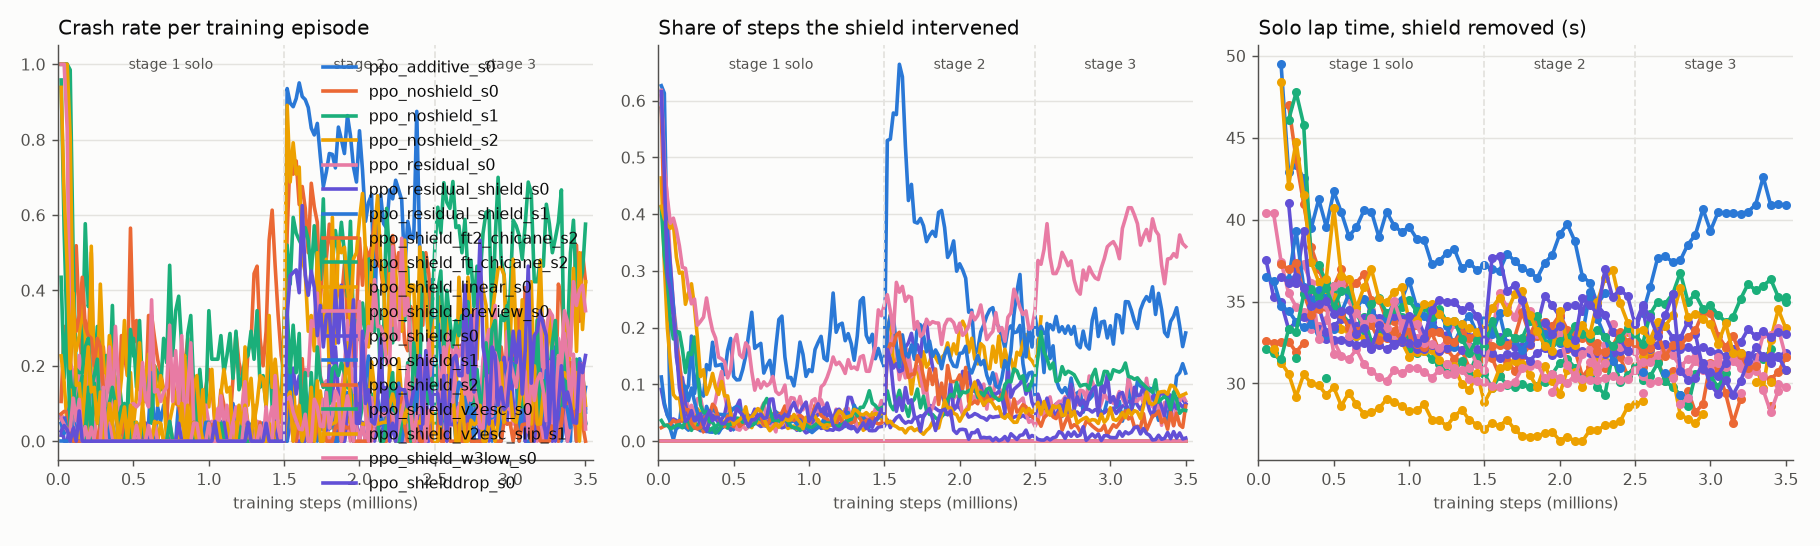
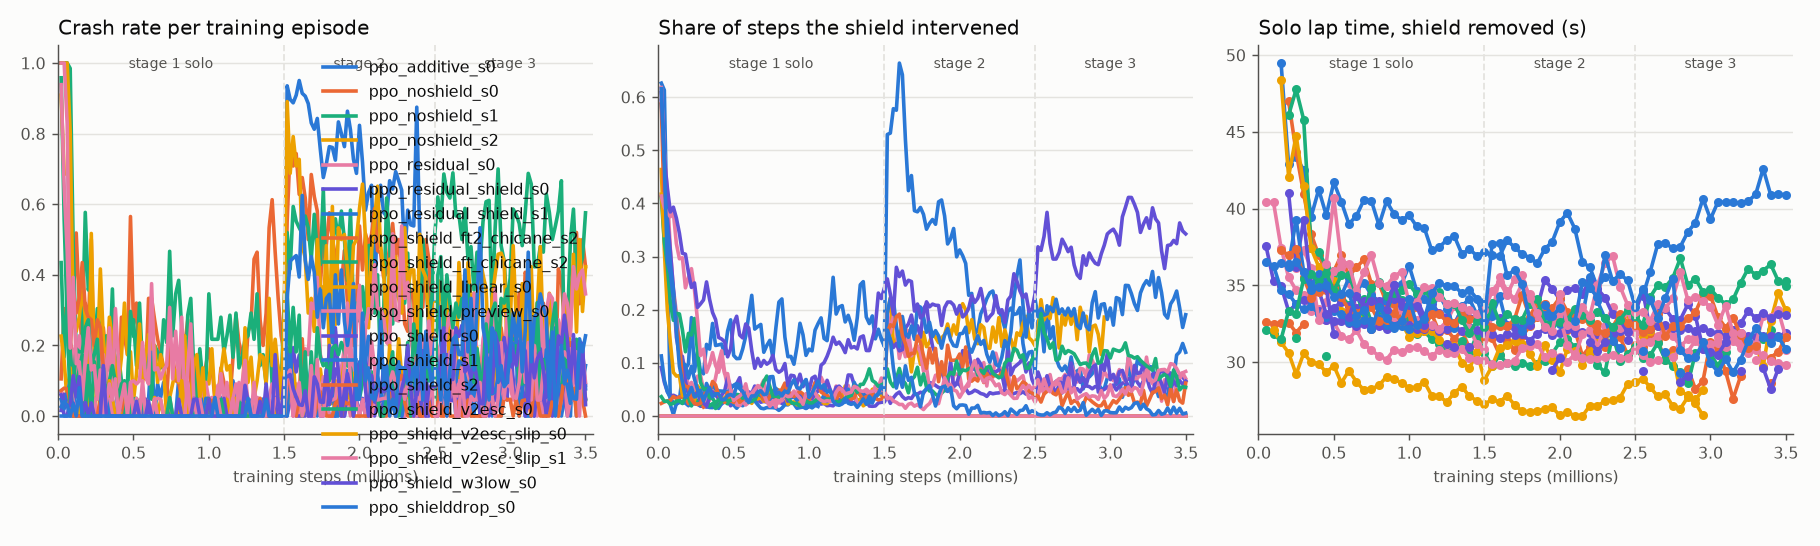
Auto-sync training progress (21:00)

diff --git a/RUNS.md b/RUNS.md
@@ -1,6 +1,6 @@
 # Run registry
 
-Auto-generated by `python -m scripts.update_registry` (2026-11-05 20:45). Each run directory `runs/<run>/` holds `args.json`, `run_info.json` (git commit, command, status), `train_log.csv` (every ~20k steps), `eval_log.csv` (solo laps with/without shield every 50k steps), `model_stage*.zip` + `vecnorm_stage*.pkl` (checkpoint after each curriculum stage). TensorBoard logs (`runs/*/tb`) stay local.
+Auto-generated by `python -m scripts.update_registry` (2026-11-05 21:00). Each run directory `runs/<run>/` holds `args.json`, `run_info.json` (git commit, command, status), `train_log.csv` (every ~20k steps), `eval_log.csv` (solo laps with/without shield every 50k steps), `model_stage*.zip` + `vecnorm_stage*.pkl` (checkpoint after each curriculum stage). TensorBoard logs (`runs/*/tb`) stay local.
 
 ## Training runs
 
@@ -12,15 +12,16 @@ Auto-generated by `python -m scripts.update_registry` (2026-11-05 20:45). Each r
 | `ppo_noshield_s2` | Ablation (no shield), seed 2 | shield=off seed=2 tyre=saturated | `65f27b5` | finished | 3.50M | 19% / 44% / 30% | 150k | 27.56 / 33.36 | 0% | stage1, stage2, stage3 |
 | `ppo_residual_s0` | ResRace/RaceMOP-style: PPO residual on top of PID+APF (APF shapes every command) | shield=off residual seed=0 tyre=saturated | `5549760` | finished | 3.50M | 14% / 22% / 22% | 50k | 29.80 / 29.80 | 0% | stage1, stage2, stage3 |
 | `ppo_residual_shield_s0` | E23: ResRace-style residual policy trained with the final shield (escape, v2 sim) | shield=cond_fb_grip_esc residual seed=0 tyre=saturated_v2 | `c8b4246` | finished | 3.50M | 0% / 3% / 9% | 50k | 31.40 / 31.88 | 7% | stage1, stage2, stage3 |
-| `ppo_residual_shield_s1` | E23, seed 1 | shield=cond_fb_grip_esc residual seed=1 tyre=saturated_v2 | `1c20b31` | running | 0.68M | 0% / - / - | 50k | 32.52 / 32.52 | 2% | - |
+| `ppo_residual_shield_s1` | E23, seed 1 | shield=cond_fb_grip_esc residual seed=1 tyre=saturated_v2 | `1c20b31` | running | 1.06M | 0% / - / - | 50k | 32.16 / 32.40 | 2% | - |
 | `ppo_shield_ft2_chicane_s2` | E22b: gentler chicane fine-tuning of seed 2 (lr 5e-5, slip penalty w6 = 1, 300k steps) | shield=cond_fb_grip_esc seed=2 tyre=saturated_v2 | `f167ff5` | running | 0.30M | 27% | 50k | 31.92 / 32.48 | 2% | - |
 | `ppo_shield_ft_chicane_s2` | E22: seed-2 shielded policy fine-tuned 500k steps, half the episodes starting before the chicane | shield=cond_fb_grip_esc seed=2 tyre=saturated_v2 | `e1f1aac` | running | 0.50M | 17% | 50k | 30.36 / 30.36 | 3% | - |
-| `ppo_shield_linear_s0` | Ours on stock linear tyres: does PPO exploit unlimited grip (slip > 15 deg, > 100% mu g)? | shield=cond_fb_grip seed=0 tyre=linear | `4ab467a` | running | 2.68M | 3% / 7% / 10% | 100k | 26.48 / 27.76 | 18% | stage1, stage2 |
+| `ppo_shield_linear_s0` | Ours on stock linear tyres: does PPO exploit unlimited grip (slip > 15 deg, > 100% mu g)? | shield=cond_fb_grip seed=0 tyre=linear | `4ab467a` | running | 2.96M | 3% / 7% / 12% | 100k | 26.48 / 26.52 | 16% | stage1, stage2 |
 | `ppo_shield_preview_s0` | Timidity test: ours with 10 centerline curvatures (1-20 m ahead) in the observation | shield=cond_fb_grip seed=0 tyre=saturated | `98cfd56` | finished | 3.50M | 2% / 4% / 7% | 250k | 30.00 / 31.60 | 6% | stage1, stage2, stage3 |
 | `ppo_shield_s0` | Ours: PPO + action-conditioned APF shield with fallback (grip reach), all stages | shield=cond_fb_grip seed=0 tyre=saturated | `afc94c8 +dirty` | finished | 3.50M | 1% / 9% / 7% | 200k | 30.48 / 33.04 | 6% | stage1, stage2, stage3 |
 | `ppo_shield_s1` | Ours, seed 1 | shield=cond_fb_grip seed=1 tyre=saturated | `0152028` | finished | 3.50M | 1% / 9% / 11% | 200k | 29.12 / 29.12 | 20% | stage1, stage2, stage3 |
 | `ppo_shield_s2` | Ours, seed 2 | shield=cond_fb_grip seed=2 tyre=saturated | `41be473` | finished | 3.50M | 1% / 3% / 3% | 150k | 30.28 / 31.60 | 4% | stage1, stage2, stage3 |
 | `ppo_shield_v2esc_s0` | Ours, improved: shield with deadlock escape, trained on the post-spin-fixed simulator | shield=cond_fb_grip_esc seed=0 tyre=saturated_v2 | `1bb44f8` | finished | 3.50M | 4% / 12% / 21% | 150k | 31.48 / 34.96 | 6% | stage1, stage2, stage3 |
+| `ppo_shield_v2esc_slip_s0` | E26: slip-penalty recipe (final shield, v2 sim, w6 = 1), seed 0 | shield=cond_fb_grip_esc seed=0 tyre=saturated_v2 | `7a45b58 +dirty` | running | 0.04M | 80% / - / - | - | - / - | 38% | - |
 | `ppo_shield_v2esc_slip_s1` | Final shield + slip penalty (w6 = 1), seed 1 (the seed that learned to slide) | shield=cond_fb_grip_esc seed=1 tyre=saturated_v2 | `7cd44cb` | finished | 3.50M | 7% / 7% / 9% | 450k | 30.08 / 30.80 | 9% | stage1, stage2, stage3 |
 | `ppo_shield_w3low_s0` | Timidity test: ours with intervention penalty w3 = 0.02 (default 0.1) | shield=cond_fb_grip seed=0 tyre=saturated | `8eb284b` | finished | 3.50M | 2% / 7% / 15% | 450k | 28.24 / 29.56 | 34% | stage1, stage2, stage3 |
 | `ppo_shielddrop_s0` | Shield dropout: shield on in 100% / 50% / 25% of episodes in stages 1/2/3 (does the policy learn safety itself?) | shield=cond_fb_grip seed=0 tyre=saturated | `0d04e46 +dirty` | finished | 3.50M | 0% / 23% / 19% | 150k | 29.32 / 30.84 | 1% | stage1, stage2, stage3 |
@@ -44,6 +45,7 @@ Auto-generated by `python -m scripts.update_registry` (2026-11-05 20:45). Each r
 - `ppo_shield_s1`: `python -m racing.train --shield cond_fb_grip --stages 1 2 3 --steps 1500000 1000000 1000000 --n_envs 7 --seed 1 --out runs/ppo_shield_s1`
 - `ppo_shield_s2`: `python -m racing.train --shield cond_fb_grip --stages 1 2 3 --steps 1500000 1000000 1000000 --n_envs 7 --seed 2 --out runs/ppo_shield_s2`
 - `ppo_shield_v2esc_s0`: `python -m racing.train --shield cond_fb_grip_esc --tire saturated_v2 --stages 1 2 3 --steps 1500000 1000000 1000000 --n_envs 7 --seed 0 --out runs/ppo_shield_v2esc_s0`
+- `ppo_shield_v2esc_slip_s0`: `python -m racing.train --shield cond_fb_grip_esc --tire saturated_v2 --w6 1.0 --stages 1 2 3 --steps 1500000 1000000 1000000 --n_envs 7 --seed 0 --out runs/ppo_shield_v2esc_slip_s0`
 - `ppo_shield_v2esc_slip_s1`: `python -m racing.train --shield cond_fb_grip_esc --tire saturated_v2 --w6 1.0 --stages 1 2 3 --steps 1500000 1000000 1000000 --n_envs 7 --seed 1 --out runs/ppo_shield_v2esc_slip_s1`
 - `ppo_shield_w3low_s0`: `python -m racing.train --shield cond_fb_grip --w3 0.02 --stages 1 2 3 --steps 1500000 1000000 1000000 --n_envs 7 --seed 0 --out runs/ppo_shield_w3low_s0`
 - `ppo_shielddrop_s0`: `python -m racing.train --shield cond_fb_grip --shield_prob 1.0 0.5 0.25 --stages 1 2 3 --steps 1500000 1000000 1000000 --n_envs 7 --seed 0 --out runs/ppo_shielddrop_s0`
@@ -84,6 +86,7 @@ Auto-generated by `python -m scripts.update_registry` (2026-11-05 20:45). Each r
 | `eval_residual_s0.json` | E8: race evaluation of the residual (ResRace-style) policy |
 | `eval_residual_shield_s0.json` | E23: residual policy trained with the shield |
 | `eval_robust.json` |  |
+| `eval_slip_rec_slip_s1.json` |  |
 | `failure_map.png` | Where on the lap races end, per controller (scripts/plot_failures.py) |
 | `final_summary.md` | FINAL comparison, all controllers on saturated_v2 (scripts/final_tables.sh) |
 | `final_v2_noshield_s2.json` |  |
@@ -103,6 +106,7 @@ Auto-generated by `python -m scripts.update_registry` (2026-11-05 20:45). Each r
 | `summary_all.md` |  |
 | `telemetry_sectors.md` | E17: sector times |
 | `telemetry_speed.png` | E17: speed trace on a solo flying lap |
+| `track2_smoke.json` |  |
 | `tradeoff.png` | Safety vs speed, every controller (scripts/plot_tradeoff.py) |
 | `training_curves.png` | Training curves for all runs (crash rate, shield activity, unshielded solo lap) |
 | `training_efficiency.md` | E16: steps to first clean / fast unshielded lap, crashes during training (per run) |

diff --git a/results/training_efficiency.md b/results/training_efficiency.md
@@ -10,15 +10,16 @@ Solo laps every 50k steps, standing start. 'fast' = under 34 s (best classical s
 | `ppo_noshield_s2` | off | 3500k | 150k | 550k | 969 | 2295 (5267) | 27.56 |
 | `ppo_residual_s0` | off residual | 3500k | 50k | 350k | 259 | 995 (4141) | 29.80 |
 | `ppo_residual_shield_s0` | cond_fb_grip_esc residual tyre=saturated_v2 | 3500k | 50k | 200k | 1 | 133 (3568) | 31.40 |
-| `ppo_residual_shield_s1` | cond_fb_grip_esc residual tyre=saturated_v2 | 500k | 50k | 250k | 0 | 0 (498) | 32.96 |
+| `ppo_residual_shield_s1` | cond_fb_grip_esc residual tyre=saturated_v2 | 1060k | 50k | 250k | 0 | 1 (1058) | 32.16 |
 | `ppo_shield_ft2_chicane_s2` | cond_fb_grip_esc tyre=saturated_v2 | 300k | 50k | 50k | 9 | 96 (355) | 31.92 |
 | `ppo_shield_ft_chicane_s2` | cond_fb_grip_esc tyre=saturated_v2 | 500k | 50k | 50k | 14 | 94 (547) | 30.36 |
-| `ppo_shield_linear_s0` | cond_fb_grip tyre=linear | 2540k | 100k | 100k | 21 | 173 (3158) | 26.48 |
+| `ppo_shield_linear_s0` | cond_fb_grip tyre=linear | 2960k | 100k | 100k | 21 | 258 (3844) | 26.48 |
 | `ppo_shield_preview_s0` | cond_fb_grip | 3500k | 250k | 400k | 15 | 174 (4103) | 30.00 |
 | `ppo_shield_s0` | cond_fb_grip | 3500k | 200k | 450k | 8 | 234 (4158) | 30.48 |
 | `ppo_shield_s1` | cond_fb_grip | 3500k | 200k | 800k | 9 | 313 (4572) | 29.12 |
 | `ppo_shield_s2` | cond_fb_grip | 3500k | 150k | 600k | 11 | 96 (3965) | 30.28 |
 | `ppo_shield_v2esc_s0` | cond_fb_grip_esc tyre=saturated_v2 | 3500k | 150k | 150k | 76 | 497 (3821) | 31.48 |
+| `ppo_shield_v2esc_slip_s0` | cond_fb_grip_esc tyre=saturated_v2 | 40k | - | - | - | 74 (90) | - |
 | `ppo_shield_v2esc_slip_s1` | cond_fb_grip_esc tyre=saturated_v2 | 3500k | 450k | 1000k | 140 | 339 (3740) | 30.08 |
 | `ppo_shield_w3low_s0` | cond_fb_grip | 3500k | 450k | 500k | 24 | 405 (4981) | 28.24 |
 | `ppo_shielddrop_s0` | cond_fb_grip drop=[1.0, 0.5, 0.25] | 3500k | 150k | 650k | 8 | 561 (4046) | 29.32 |
